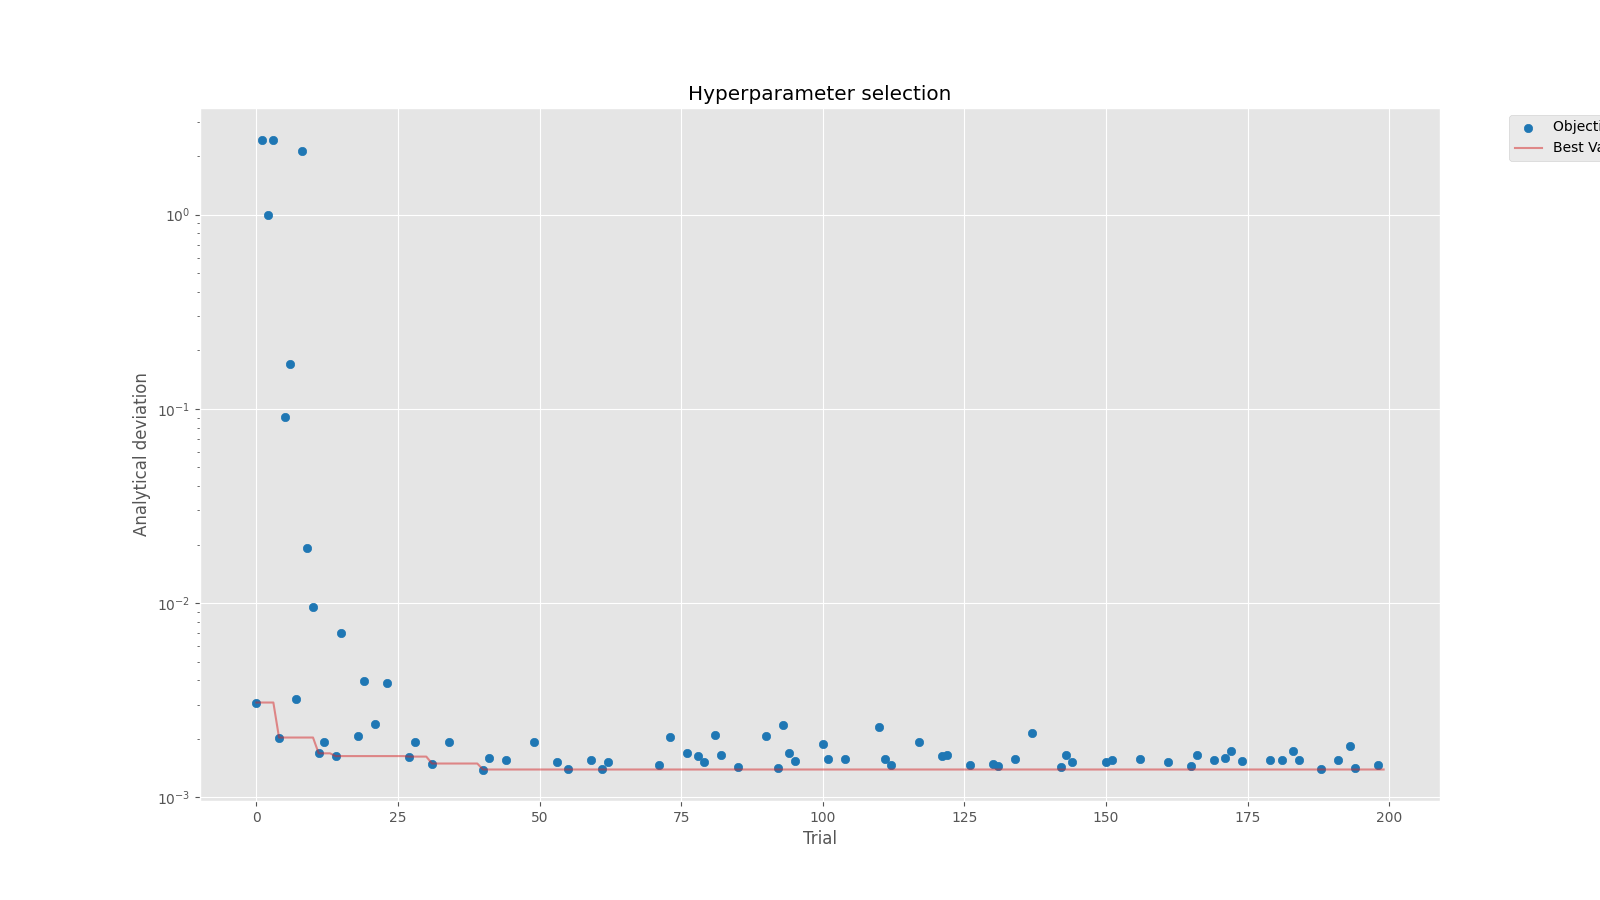
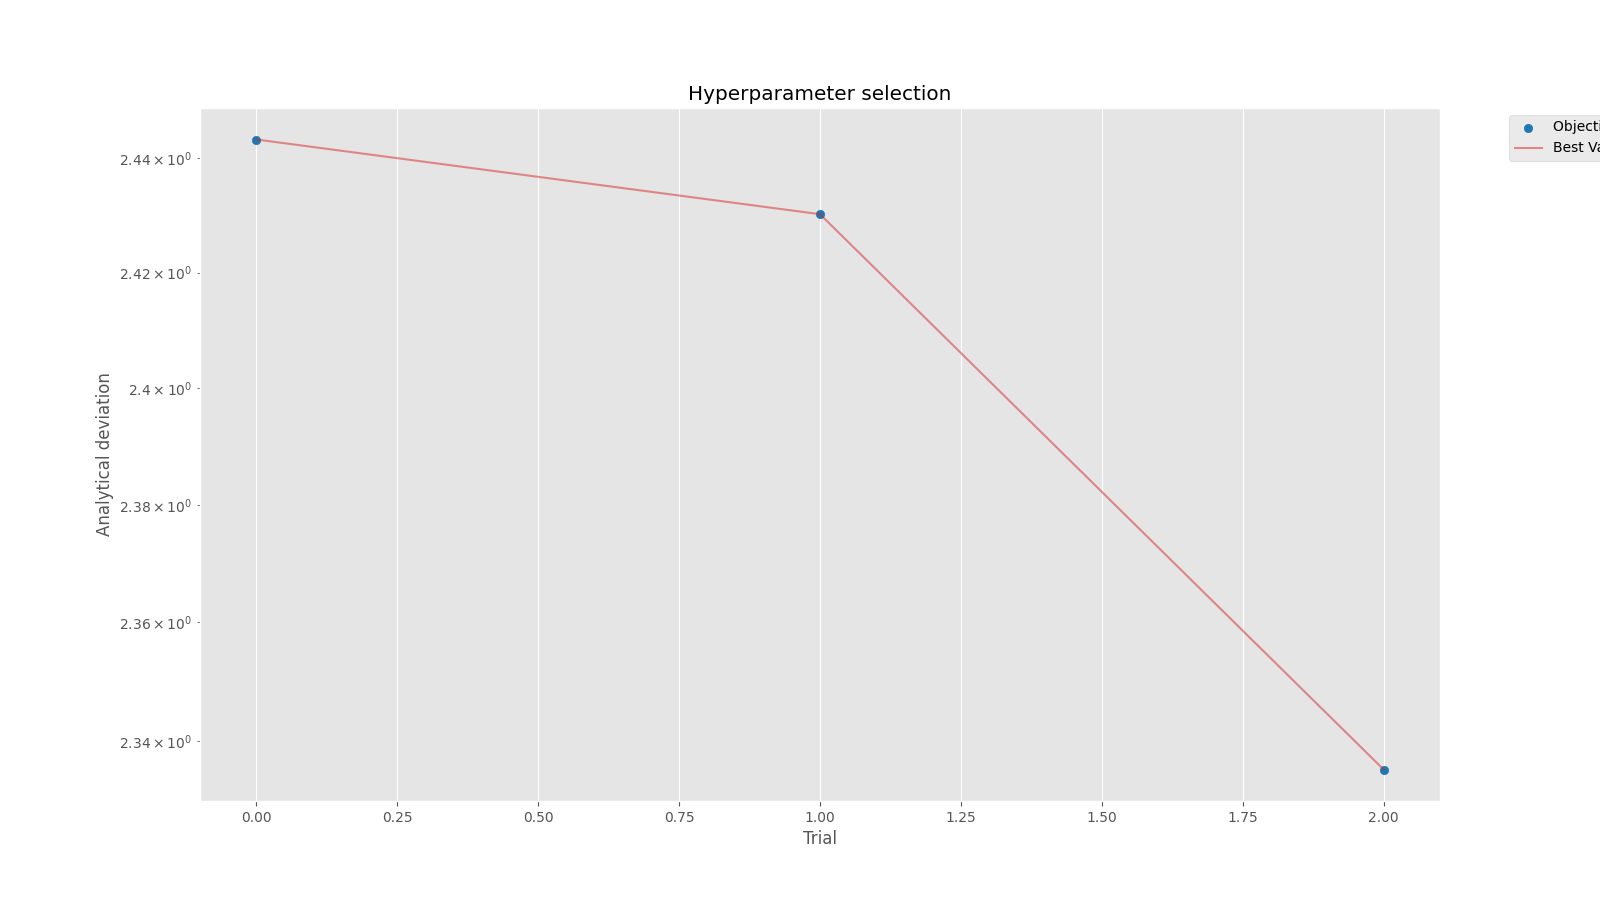
final research

diff --git a/src/Neural_Network.py b/src/Neural_Network.py
@@ -20,10 +20,14 @@ from Activation_functions.Activation_sin_cos import Sin, Cos
 EPOH = 20000
 research = 1                        # 0 if show result, 1 if start research
 # -----------------------------------
-equalLoss = []
+equalLossDeviation = []
 Loss = []
 current_loss = 0
 equal_loss = 0
+equalLossFinal = []
+arr_lambdas = [1e-6, 1e-5, 1e-4]
+# arr_lambdas = [1e-6, 1e-5, 1e-4, 1e-3, 1e-2, 0.05, 0.1, 0.5, 1, 10, 50, 100, 200, 300, 400, 500, 600, 700, 800, 900, 1e3, 1500, 2500, 5000, 10e4, 10e5, 10e6]
+len(arr_lambdas)
 
 
 device = torch.device("cuda" if torch.cuda.is_available() else "cpu")
@@ -142,6 +146,7 @@ def train(model, lambd, trial=None):
         pbar = tqdm(range(EPOH),desc='Training Progress')
         optimizer = torch.optim.Adam(model.parameters())
         check = 0
+        deviation = 0
         for step in pbar:
             def closure():
                 global equal_loss
@@ -164,19 +169,20 @@ def train(model, lambd, trial=None):
             if step >= 18000 and check == 0:
                 optimizer = torch.optim.Adam(model.parameters(), 1e-4)
                 check = 1
+            if check == 2:
+                deviation += equal_loss
             if step >= 19900 and check == 1:
                 optimizer = torch.optim.Adam(model.parameters(), 1e-5)
                 check = 2
-            if trial == None:
-                equalLoss.append(equal_loss)
-                Loss.append(current_loss)
-
             if step % 2 == 0:
                 pbar.set_description("Step: %d | Loss: %.7f | Lambda: %.6f" %
                                  (step, current_loss, lambd))
 
         pbar.clear()
         if trial != None:
+            equalLossDeviation.append(deviation/100)
+            equalLossFinal.append(equal_loss)
+            Loss.append(current_loss)
             return torch.norm(equal_f() - model(all_points).to(device).squeeze(1), p=float('inf')).item()
 
 def show(z):
@@ -200,7 +206,7 @@ def show(z):
     fig2.subplots_adjust(**margins) 
 
     ax2=plt.gca()
-    ax2.plot(equalLoss)
+    # ax2.plot(equalLoss)
     ax2.set_yscale('log')
 
     fig3, ax3 = plt.subplots()
@@ -220,9 +226,11 @@ def show(z):
     ax3.set_ylabel("LOSS")
 
 def objective(trial):
+    # equalLoss.append([])
+    k=0
     neural_model = simpleModel().to(device)
     neural_model.load_state_dict(torch.load('neural_model_weigths.pth', map_location=torch.device(device), weights_only=True))
-    x = trial.suggest_float('x', 1e-6, 1e6, log=True)
+    x = trial.suggest_categorical('x', arr_lambdas)
     err = train(neural_model, x, trial)
     return err
 
@@ -270,21 +278,25 @@ def study_show(study):
     ax4.get_figure().savefig('history_losses.png')
     ax5.get_figure().savefig('paretto.png')
 
-    f = open("Best value.txt", "w")
-    f.write(str(study.best_params["x"]))
+    f = open("Values.txt", "w")
+    f.write("lambda | avr equal loss | fin equal loss | fin loss \n")
+    for i in range(len(equalLossDeviation)):
+        f.write(str(arr_lambdas[i]) + " | " + str(equalLossDeviation[i]) + " | " + str(equalLossFinal[i]) + " | "+ str(Loss[i])+"\n")
     f.close()
 
-    plt.show()
+    # plt.show()
 
 if __name__ == "__main__":
     if research:
         study = optuna.create_study(
             direction="minimize",
             pruner=optuna.pruners.MedianPruner(
-                n_startup_trials=10, n_warmup_steps=2500, interval_steps=300
+                n_startup_trials=len(arr_lambdas), n_warmup_steps=2500, interval_steps=300
                 ),
                 )
-        study.optimize(objective, n_trials=200)
+        for i in arr_lambdas:
+            study.enqueue_trial({"x": i})
+        study.optimize(objective, n_trials=len(arr_lambdas))
         study_show(study)
     else:
         neural_model = simpleModel().to(device)
